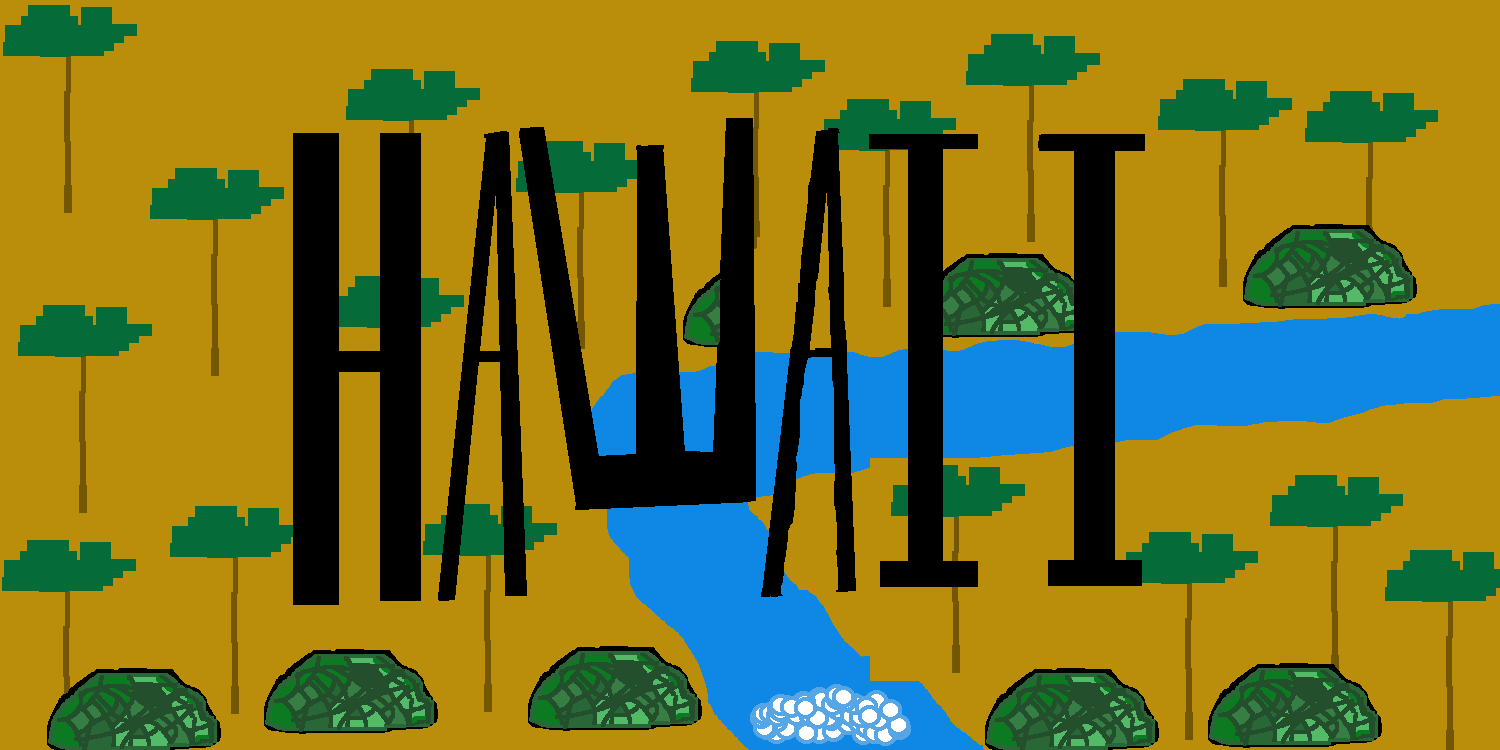
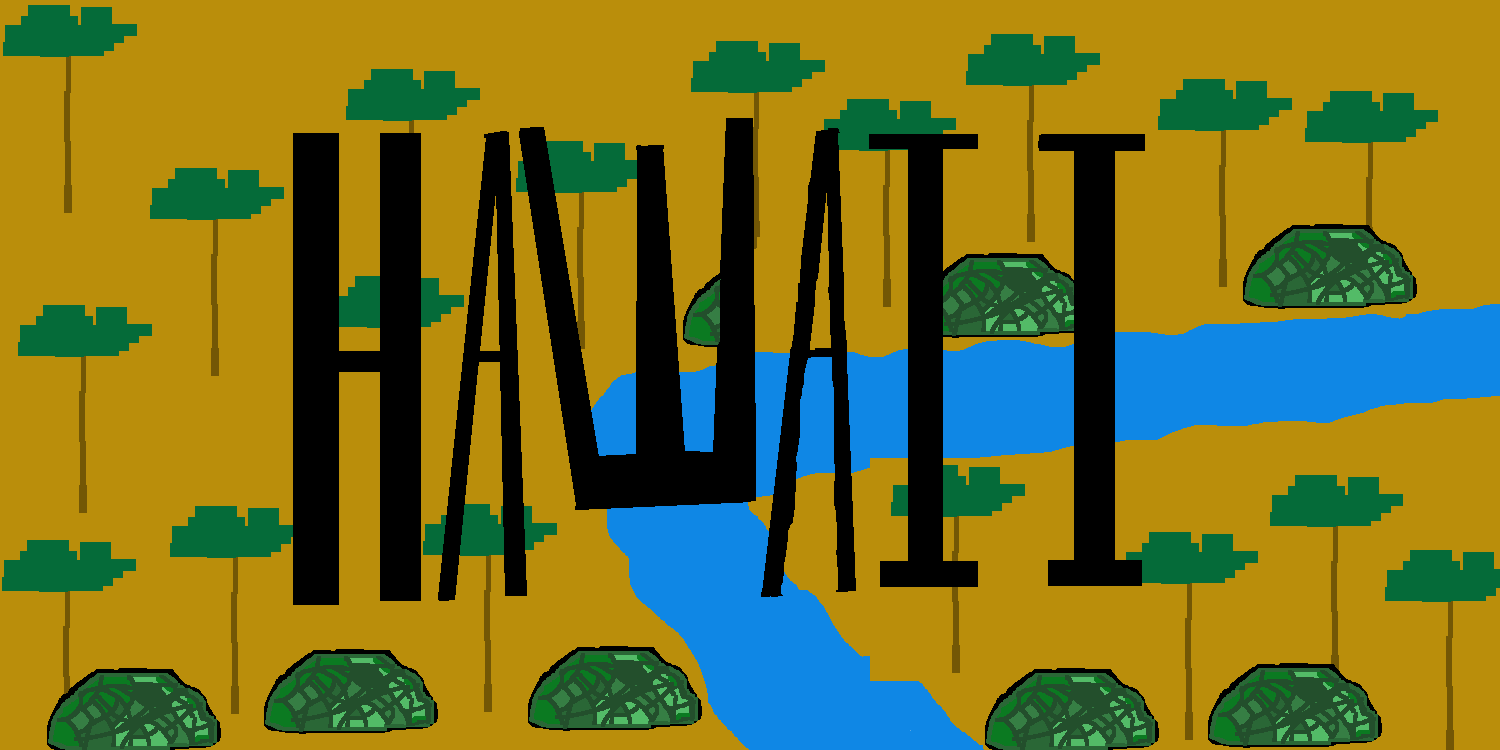
Added Narration for propeller to wrok properly and added narration files (that are blank)

Changed region(s): [[0.4907, 0.92, 0.6133, 1.0]]

diff --git a/src/scenes/Island.js b/src/scenes/Island.js
@@ -5,7 +5,8 @@ class Island extends Phaser.Scene {
 
     preload() {
         //assets
-        this.load.image('island', './assets/island-background.png')
+        this.load.image('islandFake', './assets/island-background-fake.png')
+        this.load.image('islandReal', './assets/island-background.png')
         this.load.image('propeller', './assets/propeller_island.png')
         this.load.image('starryNight', './assets/starry_night.png')
         this.load.image('ladybug', './assets/evil_ladybug.png')
@@ -20,10 +21,26 @@ class Island extends Phaser.Scene {
         this.cameras.main.setBackgroundColor('#000000')
         this.sound.play('sfx-portal')
         
+        //delcaring vars.
+        this.isIslandFlipped = false
+        this.propellerFound = false
+
+        //key inputs
+        this.keyF = this.input.keyboard.addKey(Phaser.Input.Keyboard.KeyCodes.F)
+
         //after a second, add the island image
         this.time.delayedCall(1000, () => {
-            this.add.image(game.config.width/2, game.config.height/2, 'island').setOrigin(0.5).setDisplaySize(game.config.width, game.config.height)
+            this.islandImage = this.add.image(game.config.width/2, game.config.height/2, 'islandFake').setOrigin(0.5).setDisplaySize(game.config.width, game.config.height)
+
+            //Prompt user to click F to flip card
+            this.flipPrompt = this.add.text(game.config.width/2, borderPadding*2, 'Click F to flip card, left click the differences!', {
+                fontFamily: 'Georgia, serif',
+                fontSize: '30px',
+                color: '#FC2F05'
+            }).setOrigin(0.5)
+
             this.propeller = this.add.image(game.config.width - 50, 30, 'propeller').setOrigin(0.5).setInteractive()
+            this.propeller.setVisible(false) //make propeller invisible by default
             this.partsFound = 0
             this.clickedSpots = [] //empty array (dict? list? not sure what its called in js i always get it mixed up)
     
@@ -38,44 +55,50 @@ class Island extends Phaser.Scene {
             //when the pointer is down, make the visibility false and add to parts found text
             this.propeller.on('pointerdown', () => {
                 this.propeller.setVisible(false)
+                this.propellerFound = true
                 this.partsFound++
                 this.sound.play('sfx-ding')
                 this.partsText.setText('Parts: ' + this.partsFound + '/5')
-                if (this.partsFound >= 5) //if all parts are found, go to starScene
-                {
-                    this.sound.play('sfx-portal')
-                    this.time.delayedCall(1000, () => {
-                        this.scene.start('starScene')
-                    })
-                }
+
+                this.scene.pause()
+                this.scene.launch('narration3Scene')
             })
     
             //+X IS LEFT -X IS RIGHT, +Y IS DOWN, -Y IS UP
+            //visible hitbox for debugging/testing purposes:
             const spots = [
-                { x: 80, y: 225 },   // top left bush
-                { x: 65, y: 340 },   // bottom left tree
-                { x: 320, y: 440 },  // river bubbles
-                { x: 600, y: 300 },  // sand crack
+                { x: 500, y: 425, radius: 50 },   // middle bush
+                { x: 80, y: 340, radius: 60},     // tree
+                { x: 850, y: 750, radius: 100},   // river bubbles
+                { x: 1243, y: 472, radius: 40 },  // sand crack
             ]
     
-            //hitboxes
+            //hitboxes, the index order is based on the order in const spots []
             spots.forEach((spot, index) => {
-                let hitbox = this.add.circle(spot.x, spot.y, 40, 0xff0000, 0.5).setInteractive()
+                let hitbox = this.add.circle(spot.x, spot.y, spot.radius, 0xff0000, 0.5).setInteractive()
                 hitbox.on('pointerdown', () => {
                     if (!this.clickedSpots[index]) {
                         this.clickedSpots[index] = true
                         this.partsFound++
                         this.sound.play('sfx-ding')
                         this.partsText.setText('Parts: ' + this.partsFound + '/5')
-                        
-                        if (this.partsFound >= 5) //if all parts are found, go to starScene
-                        {
-                            this.sound.play('sfx-portal')
-                            this.time.delayedCall(1000, () => {
-                                this.scene.start('starScene')
-                            })
+            
+                        if (index === 0) {   // bush
+                            this.scene.pause()
+                            this.scene.launch('narration4Scene')
                         }
-    
+                        else if (index === 1) {   // tree
+                            this.scene.pause()
+                            this.scene.launch('narration5Scene')
+                        }
+                        else if (index === 2) {   // bubbles
+                            this.scene.pause()
+                            this.scene.launch('narration6Scene')
+                        }
+                        else if (index === 3) {   // sand crack
+                            this.scene.pause()
+                            this.scene.launch('narration7Scene')
+                        }
                     }
                 })
             })
@@ -101,6 +124,24 @@ class Island extends Phaser.Scene {
     }
 
     update() {
+        //Source for Just down function: https://phaser.io/examples/v3.55.0/input/keyboard/view/just-down 
+
+        //if user is pressing F, change vars 
+        if (Phaser.Input.Keyboard.JustDown(this.keyF)) {
+            this.isIslandFlipped = !this.isIslandFlipped
+        
+            //if island is flipped, show real island, if not, show fake island 
+            if (this.isIslandFlipped) 
+            {
+                this.islandImage.setTexture('islandReal')
+                this.propeller.setVisible(!this.propellerFound) 
+            } 
+            else 
+            {
+                this.islandImage.setTexture('islandFake')
+                this.propeller.setVisible(false) //hide propeller on fake island
+            }
+        }
 
     }
 }

diff --git a/src/scenes/narration/narration_2.js b/src/scenes/narration/narration_2.js
@@ -21,7 +21,7 @@ class Narration2 extends Phaser.Scene
         }).setOrigin(0.5)
 
         //prompt text - hidden until narration is done
-        this.promptText = this.add.text(game.config.width/2, game.config.height/2 + 120, 'Click to find the parts', {
+        this.promptText = this.add.text(game.config.width/2, game.config.height/2 + 220, 'Click to find the parts', {
             fontFamily: 'Georgia, serif',
             fontSize: '16px',
             color: '#6b3e2e'
@@ -50,19 +50,29 @@ class Narration2 extends Phaser.Scene
         }
 
         //start the narration sequence
-        typeChunk('Last tuesday I went to go fly my fighter jet', 750, () => {
-            typeChunk(', you know', 500, () => {
-                typeChunk(', the usual.\n\n', 750, () => {
-                    typeChunk('When all of a sudden it ended up malfunctioning.', 1750, () => {
-                        typeChunk("\n\nI ended up on this abandoned island near Hawaii and had to find the jet's parts to put it back together.", 0, () => {
-                            this.narrationDone = true
-                            this.promptText.setVisible(true)
-                        })
-                    })
-                })
-            })
+        typeChunk('Last Tuesday I went to go fly my fighter jet', 750, () => {
+        typeChunk(', you know', 500, () => {
+        typeChunk(', the usual.\n\n', 750, () => {
+        typeChunk('When all of a sudden it ended up malfunctioning.', 1750, () => {
+        typeChunk("\n\nI ended up on this island near Hawaii I've been to before and had to find the jet's parts to put it back together", 5000, () => {
+            typeChunk("\n\nBut something felt", 1500, () => {
+            typeChunk(".", 1500, () => {
+            typeChunk(".", 1500, () => {
+            typeChunk(".", 1500, () => {
+            typeChunk(" off", 0, () => {
+            this.narrationDone = true
+            this.promptText.setVisible(true)
+                                        })
+                                        })
+                                        })
+                                        })
+                                        })
         })
-
+        })
+        })
+        })
+        })
+        
         //click to return to island once typing is done
         this.input.on('pointerdown', () => {
             if (this.narrationDone) {

diff --git a/src/scenes/narration/narration_3.js b/src/scenes/narration/narration_3.js
@@ -1,0 +1,63 @@
+class Narration3 extends Phaser.Scene
+{
+    constructor() {
+        super("narration3Scene")
+    }
+
+    create() {
+        //white background
+        this.cameras.main.setBackgroundColor('#ffffff')
+
+        //full narration text
+        const fullText = 'It was easiest to find my propeller because it was in plain sight.'
+        let displayed = ''
+        let i = 0
+        this.typingDone = false
+
+        //narration text object
+        this.narrationText = this.add.text(game.config.width/2, game.config.height/2, '', {
+            fontFamily: 'Palatino, serif',
+            fontSize: '24px',
+            color: '#3a2424',
+            wordWrap: { width: 600 },
+            align: 'center'
+        }).setOrigin(0.5)
+
+        //I use this method instead of typechunks instead. typechunks is better (and easier to read imo) for longer text that are different paragraphs.
+        //This method is simple for just one line of narration
+        this.time.addEvent({
+            delay: 50,
+            repeat: fullText.length - 1,
+            callback: () => {
+                displayed += fullText[i]
+                this.narrationText.setText(displayed)
+                i++
+
+                //set flag when typing is done
+                if (i >= fullText.length) {
+                    this.typingDone = true
+                    this.promptText.setVisible(true)
+                }
+            }
+        })
+
+        //prompt text - hidden until typing is done
+        this.promptText = this.add.text(game.config.width/2, game.config.height/2 + 80, 'Click to continue', {
+            fontFamily: 'Georgia, serif',
+            fontSize: '16px',
+            color: '#6b3e2e'
+        }).setOrigin(0.5).setVisible(false)
+
+        //click to return to island once typing is done
+        this.input.on('pointerdown', () => {
+            if (this.typingDone) {
+                this.scene.stop()
+                this.scene.resume('islandScene')
+            }
+        })
+    }
+
+    update() {
+
+    }
+}

diff --git a/index.html b/index.html
@@ -12,8 +12,12 @@
     <script src="./src/prefabs/Spaceship.js"></script>
     <script src="./src/scenes/Menu.js"></script>
     <script src="./src/scenes/Play.js"></script>
-    <script src="./src/scenes/narration/Narration_1.js"></script>
+    <script src="./src/scenes/narration/narration_1.js"></script>
     <script src="./src/scenes/narration/narration_2.js"></script>
+    <script src="./src/scenes/narration/narration_3.js"></script>
+    <script src="./src/scenes/narration/narration_4.js"></script>
+    <script src="./src/scenes/narration/narration_5.js"></script>
+    <script src="./src/scenes/narration/narration_6.js"></script>
     <script src="./src/main.js"></script>
 
 

diff --git a/src/scenes/narration/narration_4.js b/src/scenes/narration/narration_4.js
@@ -1,0 +1,14 @@
+//this file is specifically for me to have a blank template everytime I want ot make a new Narration file
+class Narration4 extends Phaser.Scene
+{
+    constructor() {
+        super("narration4Scene")
+    }
+
+    create() {
+    }
+
+    update() {
+
+    }
+}

diff --git a/src/scenes/narration/narration_5.js b/src/scenes/narration/narration_5.js
@@ -1,0 +1,14 @@
+//this file is specifically for me to have a blank template everytime I want ot make a new Narration file
+class Narration5 extends Phaser.Scene
+{
+    constructor() {
+        super("narration5Scene")
+    }
+
+    create() {
+    }
+
+    update() {
+
+    }
+}

diff --git a/src/scenes/narration/narration_6.js b/src/scenes/narration/narration_6.js
@@ -1,0 +1,14 @@
+//this file is specifically for me to have a blank template everytime I want ot make a new Narration file
+class Narration6 extends Phaser.Scene
+{
+    constructor() {
+        super("narration6Scene")
+    }
+
+    create() {
+    }
+
+    update() {
+
+    }
+}

diff --git a/src/scenes/narration/narration_7.js b/src/scenes/narration/narration_7.js
@@ -1,0 +1,14 @@
+//this file is specifically for me to have a blank template everytime I want ot make a new Narration file
+class Narration7 extends Phaser.Scene
+{
+    constructor() {
+        super("narration7Scene")
+    }
+
+    create() {
+    }
+
+    update() {
+
+    }
+}

diff --git a/src/scenes/narration/narration_template.js b/src/scenes/narration/narration_template.js
@@ -1,0 +1,14 @@
+//this file is specifically for me to have a blank template everytime I want ot make a new Narration file
+class Narration_ extends Phaser.Scene
+{
+    constructor() {
+        super("narration_Scene")
+    }
+
+    create() {
+    }
+
+    update() {
+
+    }
+}

diff --git a/src/main.js b/src/main.js
@@ -7,7 +7,7 @@ let config = {
     type: Phaser.AUTO,
     width: 1500,
     height: 750,
-    scene: [ Menu, Play, Island, Star, Narration1, Narration2]
+    scene: [ Menu, Play, Island, Star, Narration1, Narration2, Narration3, Narration4, Narration5, Narration6]
   }
 
 
